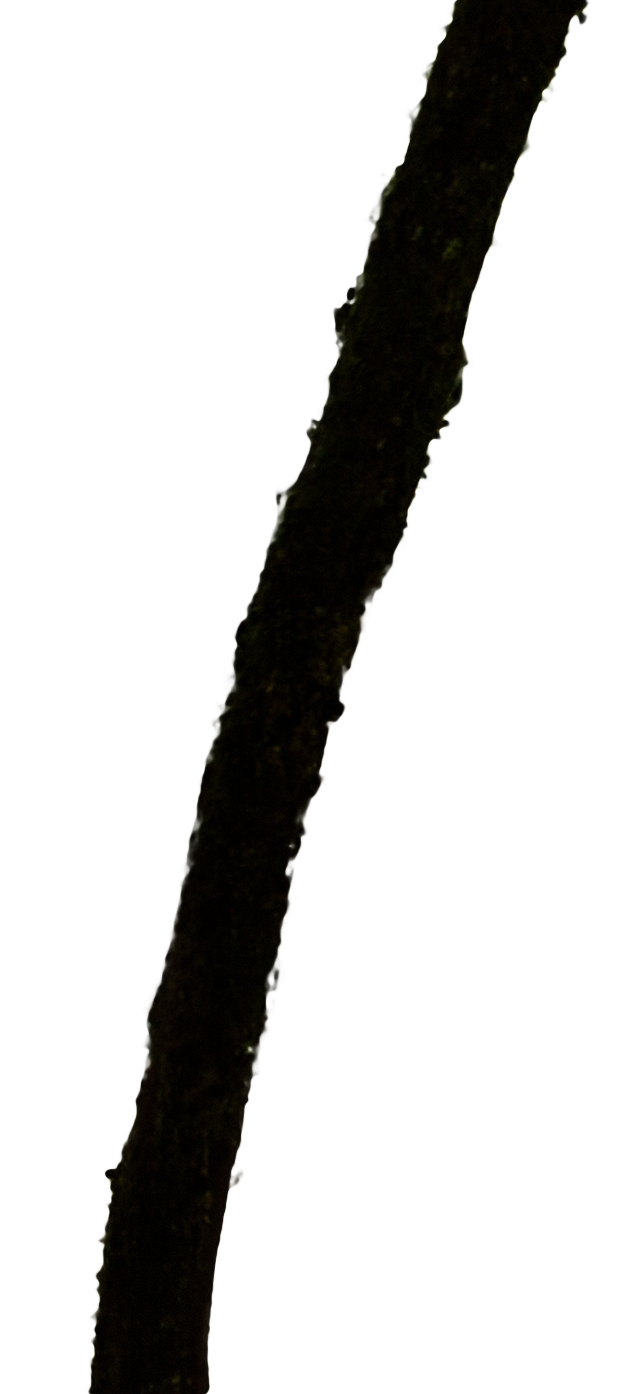
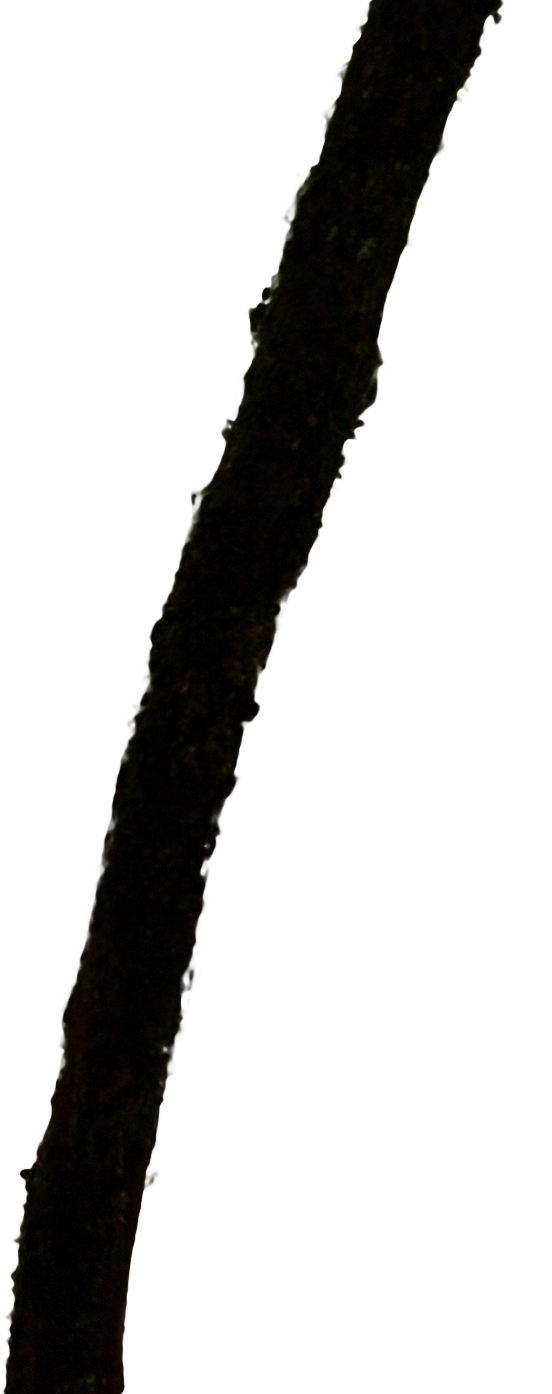
updates

Changed region(s): [[0.0, 0.0, 0.7391, 1.0], [0.2156, 0.0, 0.9239, 1.0], [0.6467, 0.1542, 0.6775, 0.1851]]

diff --git a/index.html b/index.html
@@ -31,17 +31,18 @@
     .magazine-header .left-tree {
       position: absolute;
       bottom: 0;
-      z-index: 101;
+      z-index: 102;
+      left: calc(26% - 300px);
     }
     .magazine-header .right-tree {
       position: absolute;
       bottom: 0;
-      right: 0;
+      right: calc(20% - 250px);
       z-index: 101;
     }
     .magazine-header .right-tree img,
     .magazine-header .left-tree img {
-      max-height: 100vh;
+      height: 100vh;
     }
     .magazine-header .title-container {
       position: absolute;
@@ -57,6 +58,7 @@
       text-transform: uppercase;
       font-family: 'Roboto Slab', serif;
       font-size: 100px;
+      opacity: .6;
     }
     .magazine-content {
       background: white;
@@ -99,8 +101,8 @@
         document.querySelector(".magazine-header .background-img").style.transform = `scale(${1 + window.scrollY / 80000})`;
         document.querySelector(".magazine-header .left-tree").style.transform = `scale(${1 + window.scrollY / 8000})translate(-${window.scrollY/80}%,-${window.scrollY/10000}%)`;
         document.querySelector(".magazine-header .right-tree").style.transform = `scale(${1 + window.scrollY / 24000})translate(${window.scrollY/400}%,${window.scrollY/10000}%)`;
-        document.querySelector(".magazine-header .title-container h1").style.transform = `scale(${1 + window.scrollY / 16000})`;
-        document.querySelector(".magazine-header .title-container h1").style.opacity = 1 - window.scrollY / 16000;
+        document.querySelector(".magazine-header .title-container h1").style.transform = `scale(${1 + window.scrollY / 20000})translate(0%,-${window.scrollY/500}%)`;
+        document.querySelector(".magazine-header .title-container h1").style.opacity = .6 + window.scrollY / 5000;
       } else {
         document.querySelector(".magazine-header .background-img").style.transform = `scale(1)`;
       }
